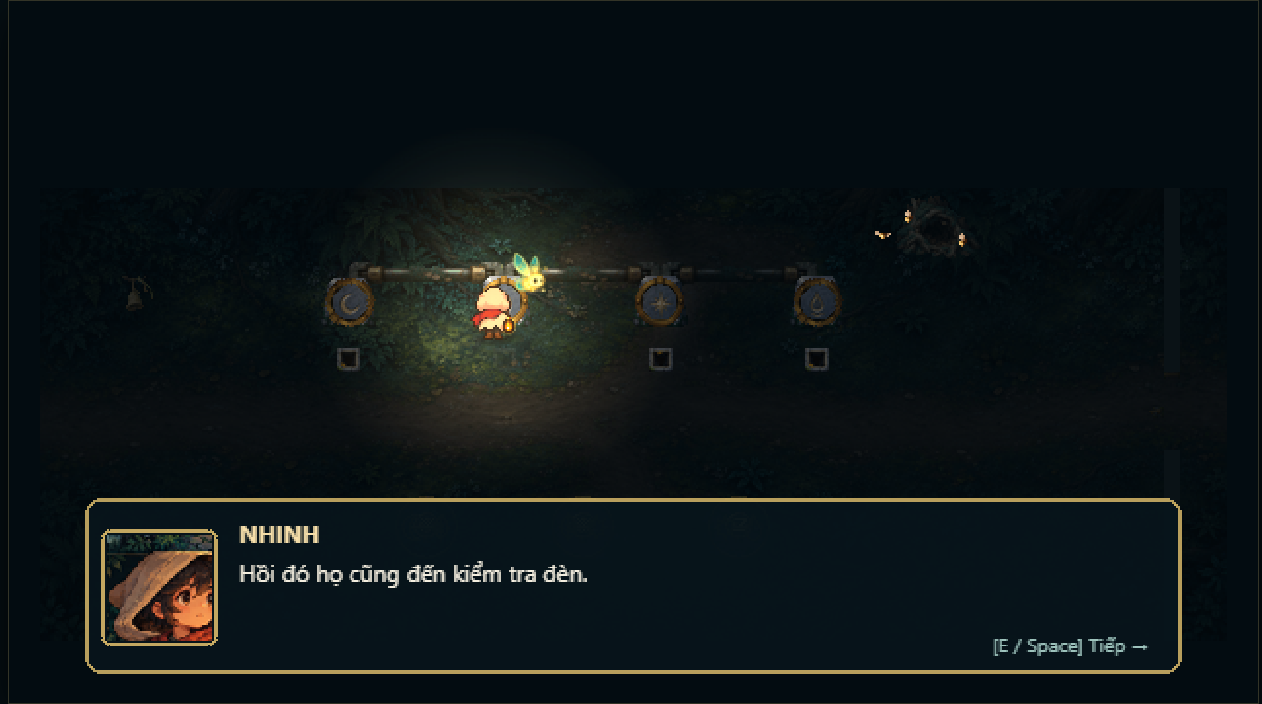
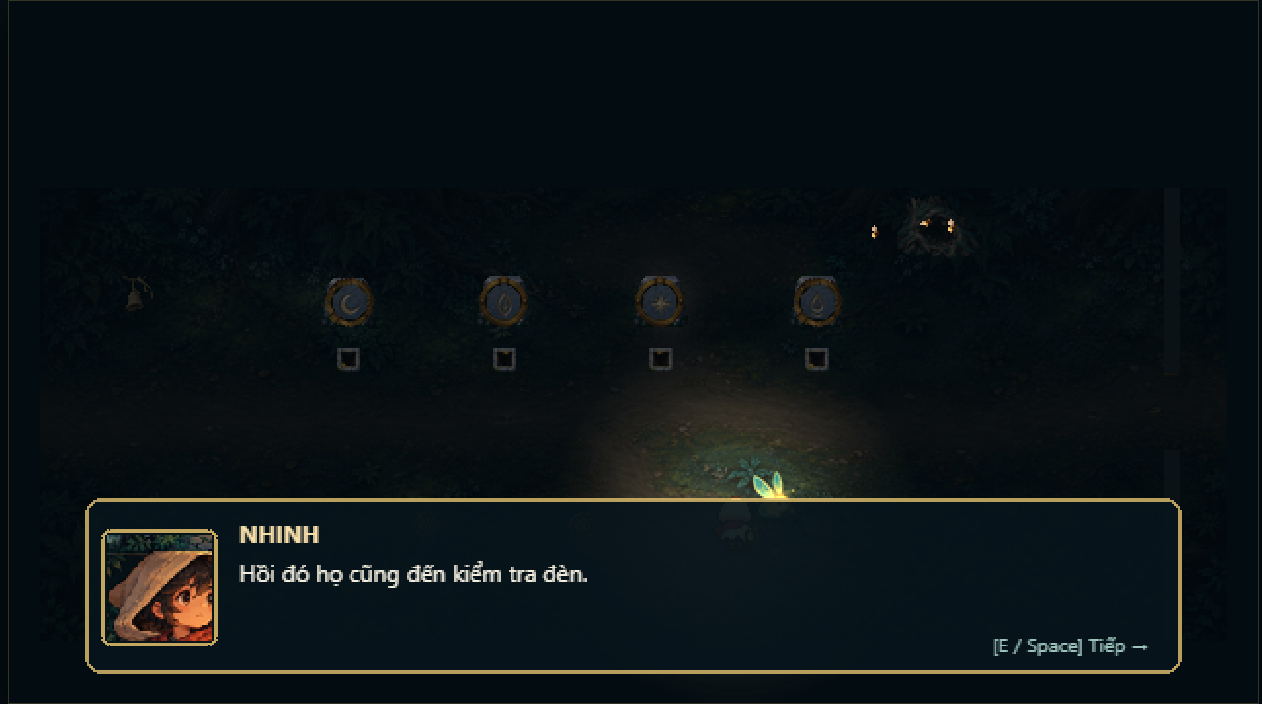
test(v4): play the grove through to the exit and keep the proof
Walked Nhinh to each crank with arrow keys and turned it with E: X twice (state x=2), Y once (y=1), Z twice (z=2), which opened the gate. The ending lines played, the exit zone started the level change, and the next level showed its placeholder screen. Two more runtime screenshots are kept.

diff --git a/assets/levels/02-whispering-woods/v4/VERIFICATION.md b/assets/levels/02-whispering-woods/v4/VERIFICATION.md
@@ -57,17 +57,18 @@ bấm F, và đặt trạng thái đã giải để mở cổng.
 | Đom đóm bay | Khung đổi sau 160 ms: `[1,1,2]` → `[2,0,0]` |
 | Khung chuyển cổng | `wwd-gate-closed → wwd-gate-half` (3 mẫu) `→ wwd-gate-open`, lấy mẫu mỗi 45 ms |
 | Hiệu ứng mở cổng | Quầng sáng xuất hiện đúng tại cổng ở khung hình chuyển |
-| Kết màn | Vào trạng thái giải thì thoại kết (`Hồi đó họ cũng đến kiểm tra đèn.`) chạy |
+| Kết màn | Thoại kết (`Hồi đó họ cũng đến kiểm tra đèn.`) chạy khi cổng mở |
+| Chơi trọn bằng bàn phím | Đi bộ tới từng tay quay: X chặn ở `x=199` rồi E×2 → `x=2`; Y → `y=1`; Z → `z=2`; cổng sang `wwd-gate-open` |
+| Qua cổng | Vào vùng thoát, màn chuyển sang màn hình chờ `Màn library-roots — đang dựng` |
 | Trạng thái sprite | `axle-x.alpha = 1`, `mark-x.alpha = 1` sau Pulse; `floor` và `hollow` nạp đúng texture |
 
 Ảnh chụp: `previews/runtime-pulse-640x360.png`, `previews/runtime-lantern-off-640x360.png`,
-`previews/runtime-gate-open-640x360.png`.
+`previews/runtime-gate-open-640x360.png`, `previews/runtime-exit-640x360.png`.
 
 ## Chưa kiểm
 
 | Việc | Trạng thái |
 | --- | --- |
-| Chơi trọn một lượt bằng tay (quay tay quay, gài cổng) | **NOT_RUN** — trạng thái đã giải được đặt qua console, không quay đủ 5 nấc |
 | Độ tương phản của dấu khớp và trục ở các góc màn | chưa đo |
 | Chuyển động đom đóm có bị giật khi khung hình dao động | chưa đo |
 | Chơi thử và duyệt của người dùng | chưa |

diff --git a/docs/implementation/v4/02-whispering-woods-art.md b/docs/implementation/v4/02-whispering-woods-art.md
@@ -111,6 +111,7 @@ module không lỗi.
 chuông cỏ, cổng; Pulse lộ trục sau chân bia và ba dấu khớp; tắt F thì nền và đường vẫn đọc được; đom đóm đổi khung
 sau 160 ms; cổng chuyển `closed → half → open` và thoại kết màn chạy. Ảnh trong `previews/runtime-*.png`.
 
-Chưa chơi trọn một lượt bằng tay (trạng thái đã giải được đặt qua console), chưa đo độ tương phản ở các góc màn.
+Đã chơi trọn một lượt bằng bàn phím: đi bộ tới ba tay quay, E đủ năm nấc, cổng mở, thoại kết màn chạy, đi qua cổng
+sang màn hình chờ màn 03. Chưa đo độ tương phản của dấu khớp ở các góc màn.
 
 
